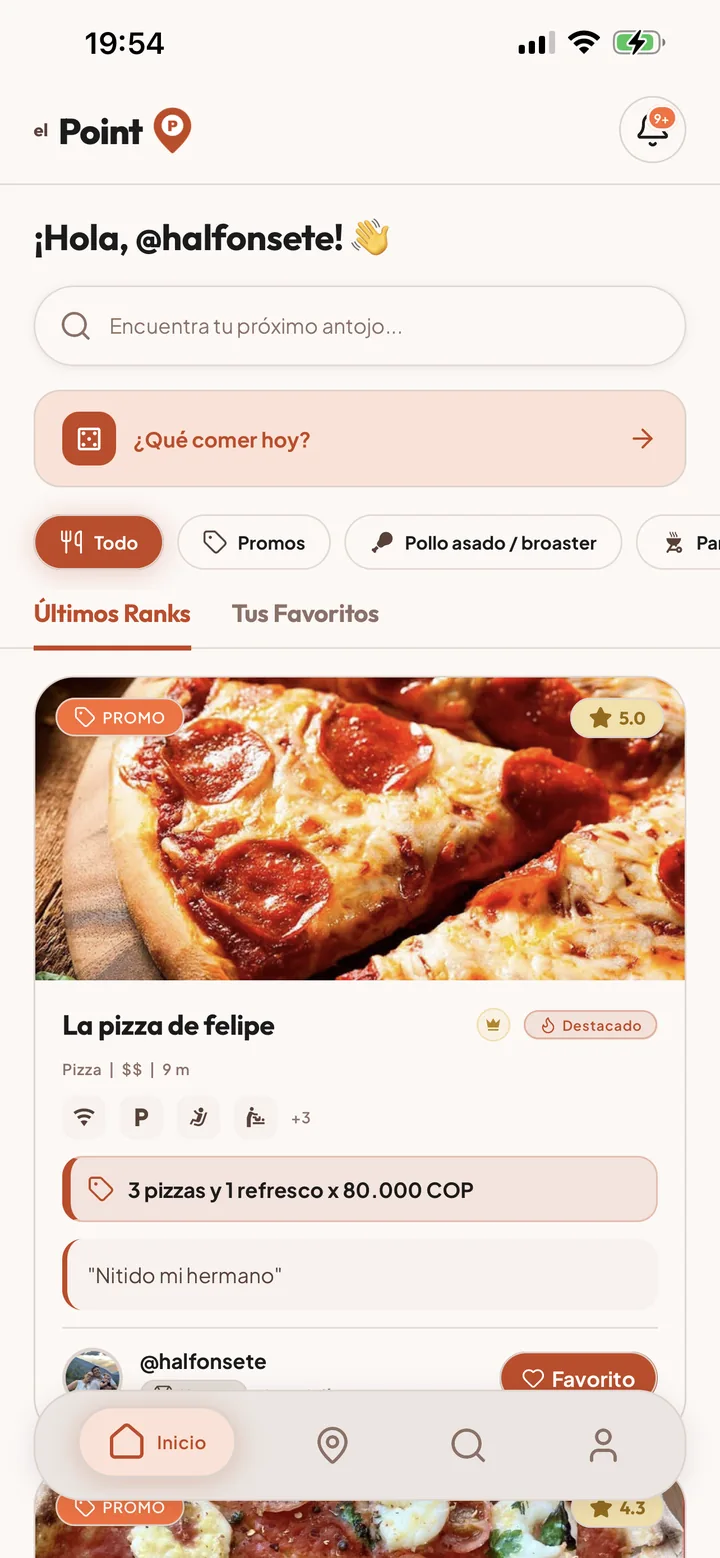
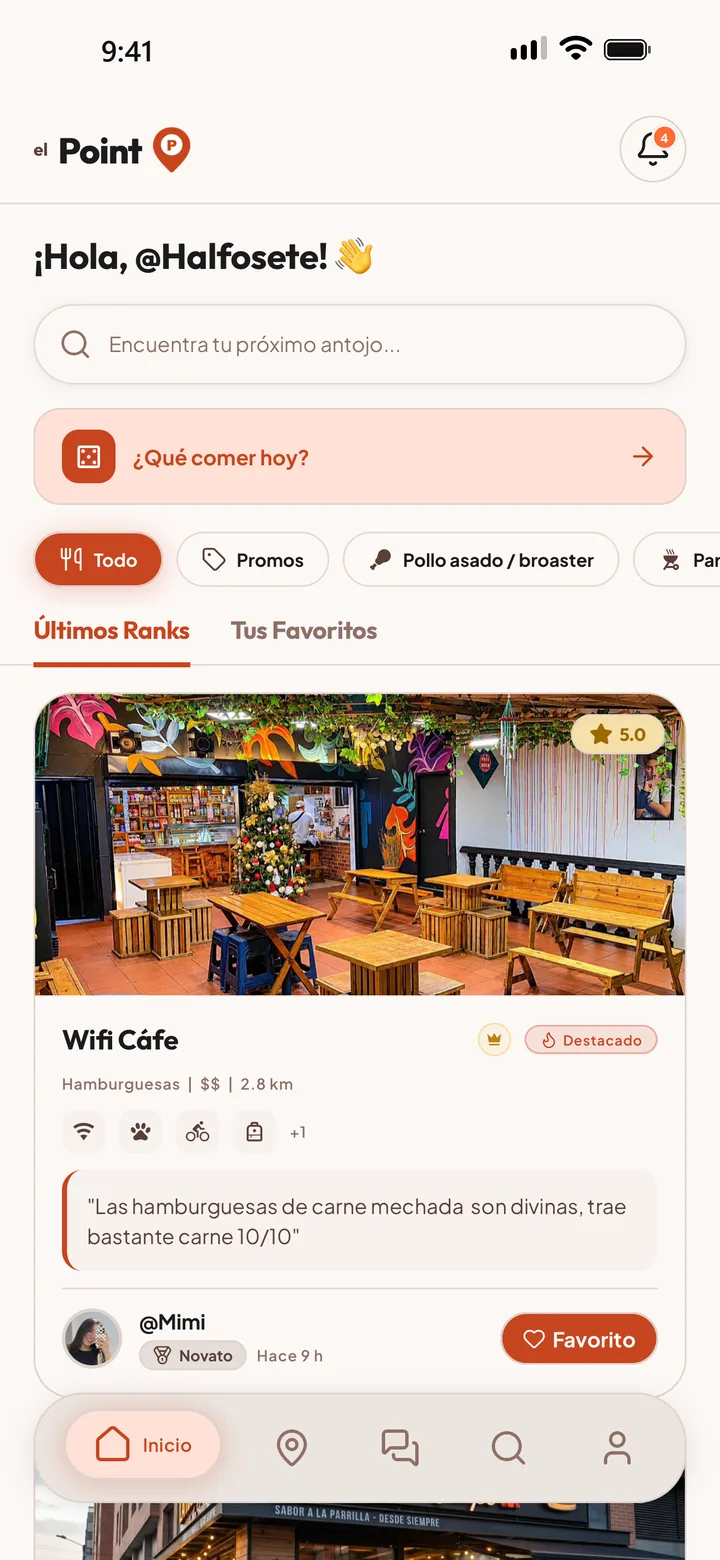
feat(landing): capturas de la 1.2
Siete capturas nuevas (inicio, tasas, pedido, Comunidad, mapa, filtros y
perfil); se quitan las versiones en modo oscuro y la de búsqueda.

diff --git a/landing/index.html b/landing/index.html
@@ -99,8 +99,8 @@
         </div>
 
         <div class="duo" aria-hidden="true">
-          <figure class="phone phone-a"><picture><source srcset="shots/feed_black.webp" media="(prefers-color-scheme: dark)"><img src="shots/feed.webp" alt="" width="720" height="1558" fetchpriority="high"></picture></figure>
-          <figure class="phone phone-b"><picture><source srcset="shots/map_black.webp" media="(prefers-color-scheme: dark)"><img src="shots/map.webp" alt="" width="720" height="1558" fetchpriority="high"></picture></figure>
+          <figure class="phone phone-a"><picture><img src="shots/feed.webp" alt="" width="720" height="1560" fetchpriority="high"></picture></figure>
+          <figure class="phone phone-b"><picture><img src="shots/map.webp" alt="" width="720" height="1560" fetchpriority="high"></picture></figure>
         </div>
         <p class="map-credit">Mapa de San Cristóbal © colaboradores de <a href="https://www.openstreetmap.org/copyright" target="_blank" rel="noopener">OpenStreetMap</a></p>
       </div>
@@ -219,7 +219,7 @@
       <div class="wrap">
         <div class="section-head">
           <h2>Así se ve.</h2>
-          <p>Inicio, búsqueda con filtros, mapa y tu progreso, en modo claro y oscuro. Toca una captura para verla grande. Capturas con datos de demostración.</p>
+          <p>Inicio, menú con precios en tres monedas, pedido por WhatsApp, Comunidad, mapa, filtros y tu progreso. Toca una captura para verla grande. Capturas con datos de demostración.</p>
         </div>
         <div class="shots-ctl">
           <button type="button" class="ctl-btn" data-dir="-1" aria-label="Capturas anteriores">&#8249;</button>
@@ -228,11 +228,13 @@
       </div>
       <div class="wrap">
         <div class="shots">
-          <div class="shot"><picture><source srcset="shots/feed_black.webp" media="(prefers-color-scheme: dark)"><img src="shots/feed.webp" alt="Inicio de El Point con los locales de la ciudad" loading="lazy" decoding="async" width="720" height="1558" /></picture></div>
-          <div class="shot"><picture><source srcset="shots/search_black.webp" media="(prefers-color-scheme: dark)"><img src="shots/search.webp" alt="Buscar restaurantes por nombre" loading="lazy" decoding="async" width="720" height="1558" /></picture></div>
-          <div class="shot"><picture><source srcset="shots/filters_black.webp" media="(prefers-color-scheme: dark)"><img src="shots/filters.webp" alt="Filtros por categoría, precio y comodidades" loading="lazy" decoding="async" width="720" height="1558" /></picture></div>
-          <div class="shot"><picture><source srcset="shots/map_black.webp" media="(prefers-color-scheme: dark)"><img src="shots/map.webp" alt="Mapa con los locales cercanos" loading="lazy" decoding="async" width="720" height="1558" /></picture></div>
-          <div class="shot"><picture><source srcset="shots/profile_black.webp" media="(prefers-color-scheme: dark)"><img src="shots/profile.webp" alt="Perfil con XP, nivel y logros" loading="lazy" decoding="async" width="720" height="1558" /></picture></div>
+          <div class="shot"><picture><img src="shots/feed.webp" alt="Inicio de El Point con los locales de la ciudad" loading="lazy" decoding="async" width="720" height="1560" /></picture></div>
+          <div class="shot"><picture><img src="shots/rates.webp" alt="Menú con precios en dólares, bolívares y pesos" loading="lazy" decoding="async" width="720" height="1560" /></picture></div>
+          <div class="shot"><picture><img src="shots/order.webp" alt="Pedido armado desde el menú, listo para enviar por WhatsApp" loading="lazy" decoding="async" width="720" height="1560" /></picture></div>
+          <div class="shot"><picture><img src="shots/community.webp" alt="Comunidad con encuestas, reseñas y antojos" loading="lazy" decoding="async" width="720" height="1560" /></picture></div>
+          <div class="shot"><picture><img src="shots/map.webp" alt="Mapa con los locales cercanos" loading="lazy" decoding="async" width="720" height="1560" /></picture></div>
+          <div class="shot"><picture><img src="shots/filters.webp" alt="Filtros por categoría, precio, comodidades y métodos de pago" loading="lazy" decoding="async" width="720" height="1560" /></picture></div>
+          <div class="shot"><picture><img src="shots/profile.webp" alt="Perfil con XP, nivel y logros" loading="lazy" decoding="async" width="720" height="1560" /></picture></div>
         </div>
       </div>
     </section>
